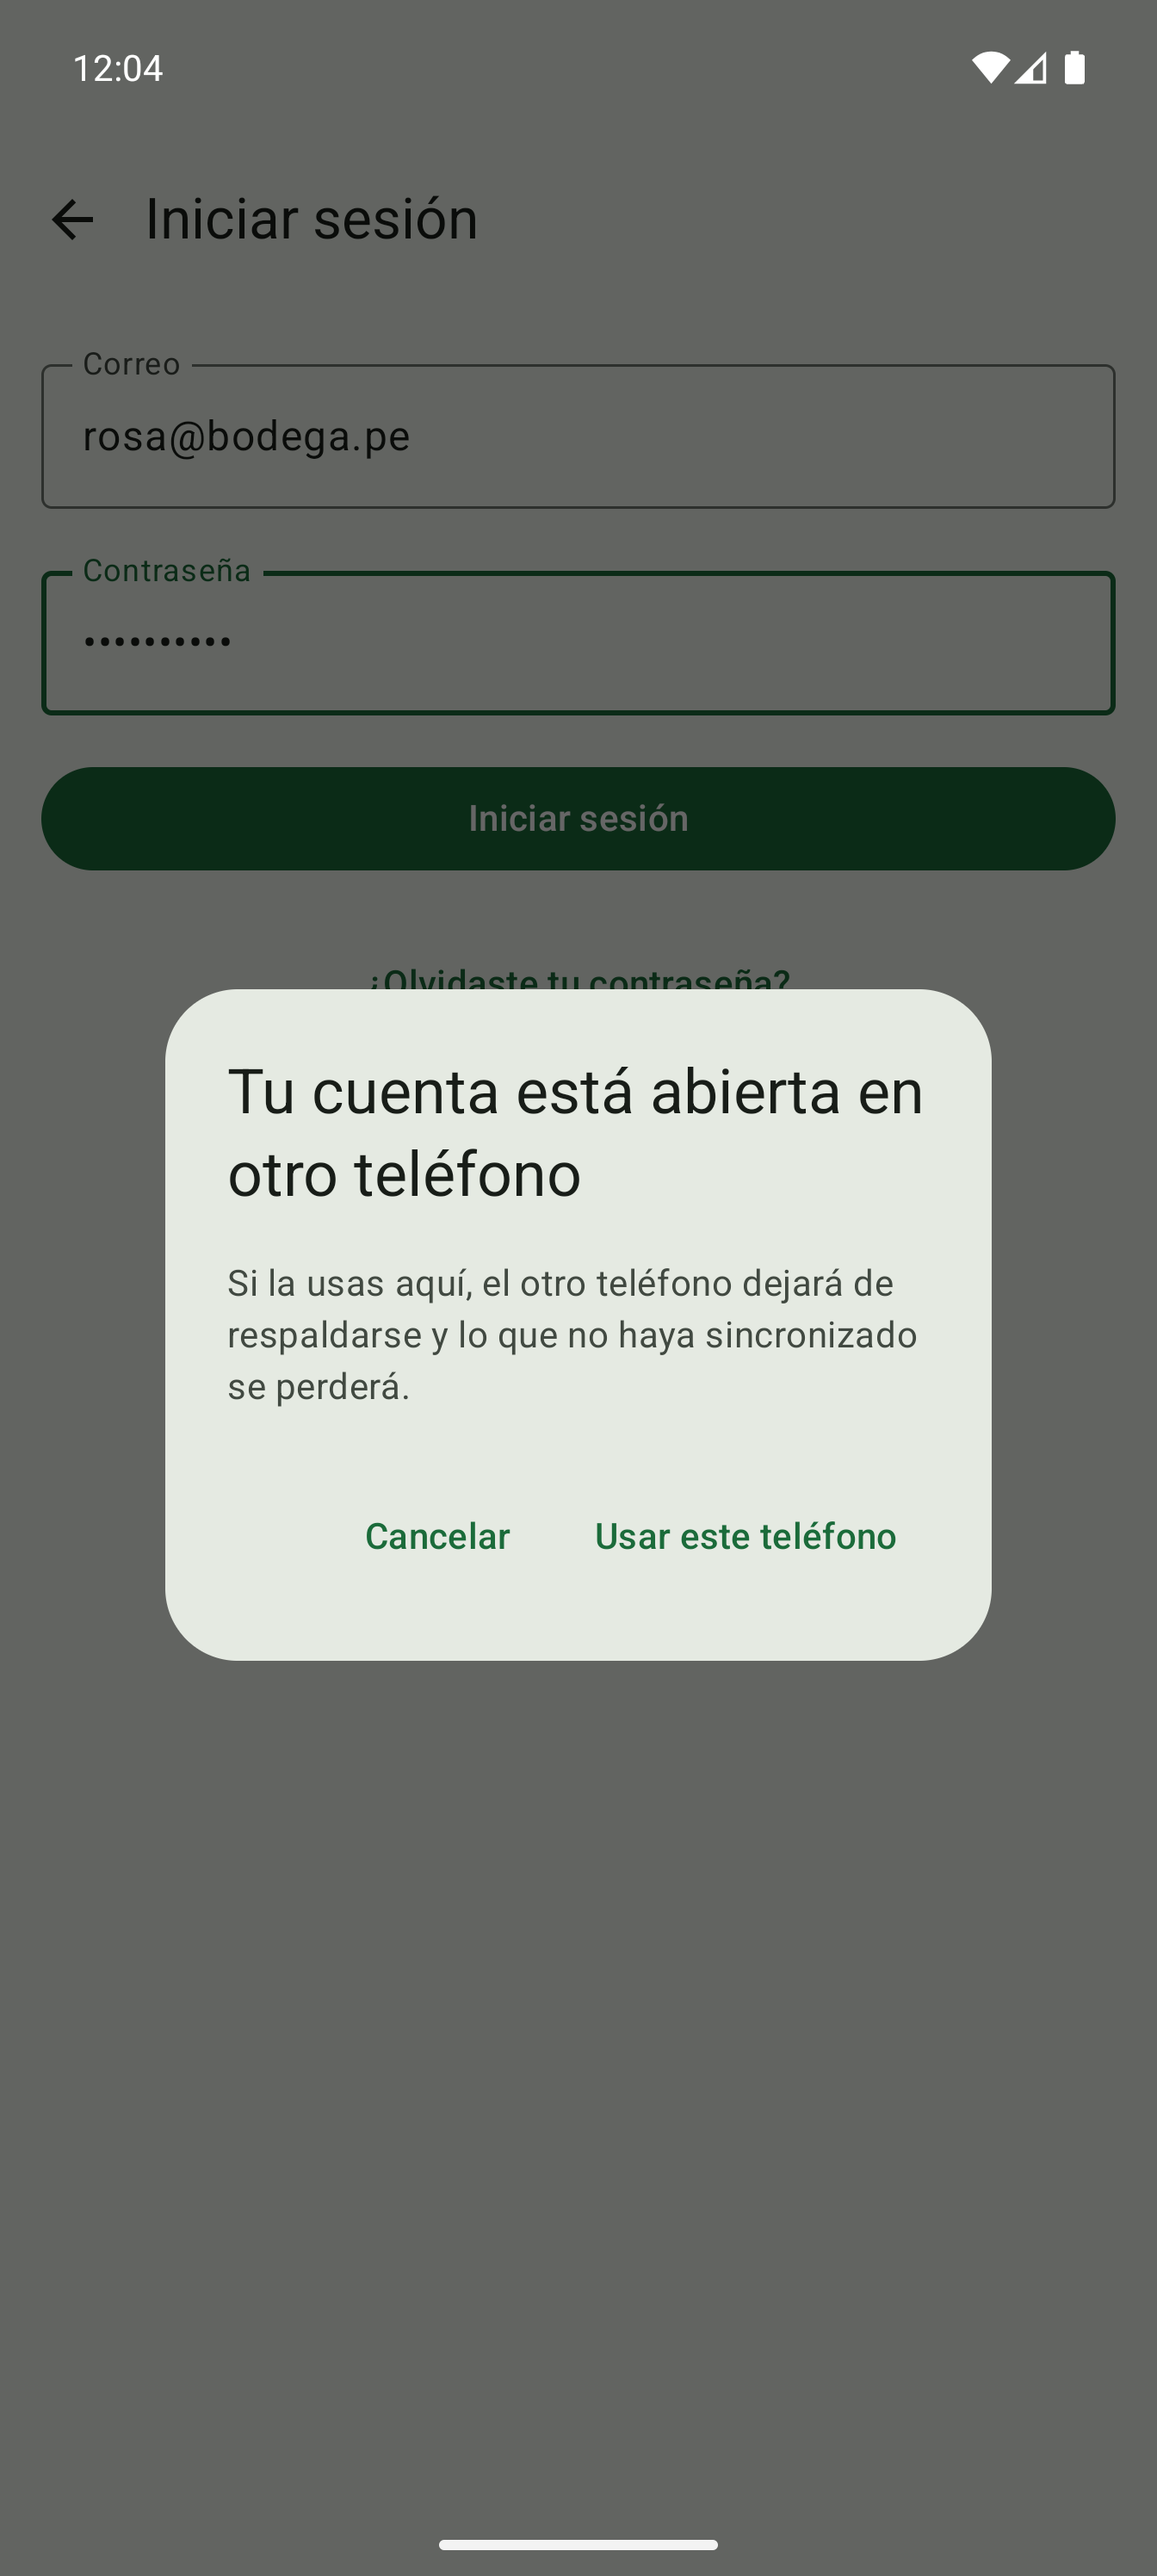
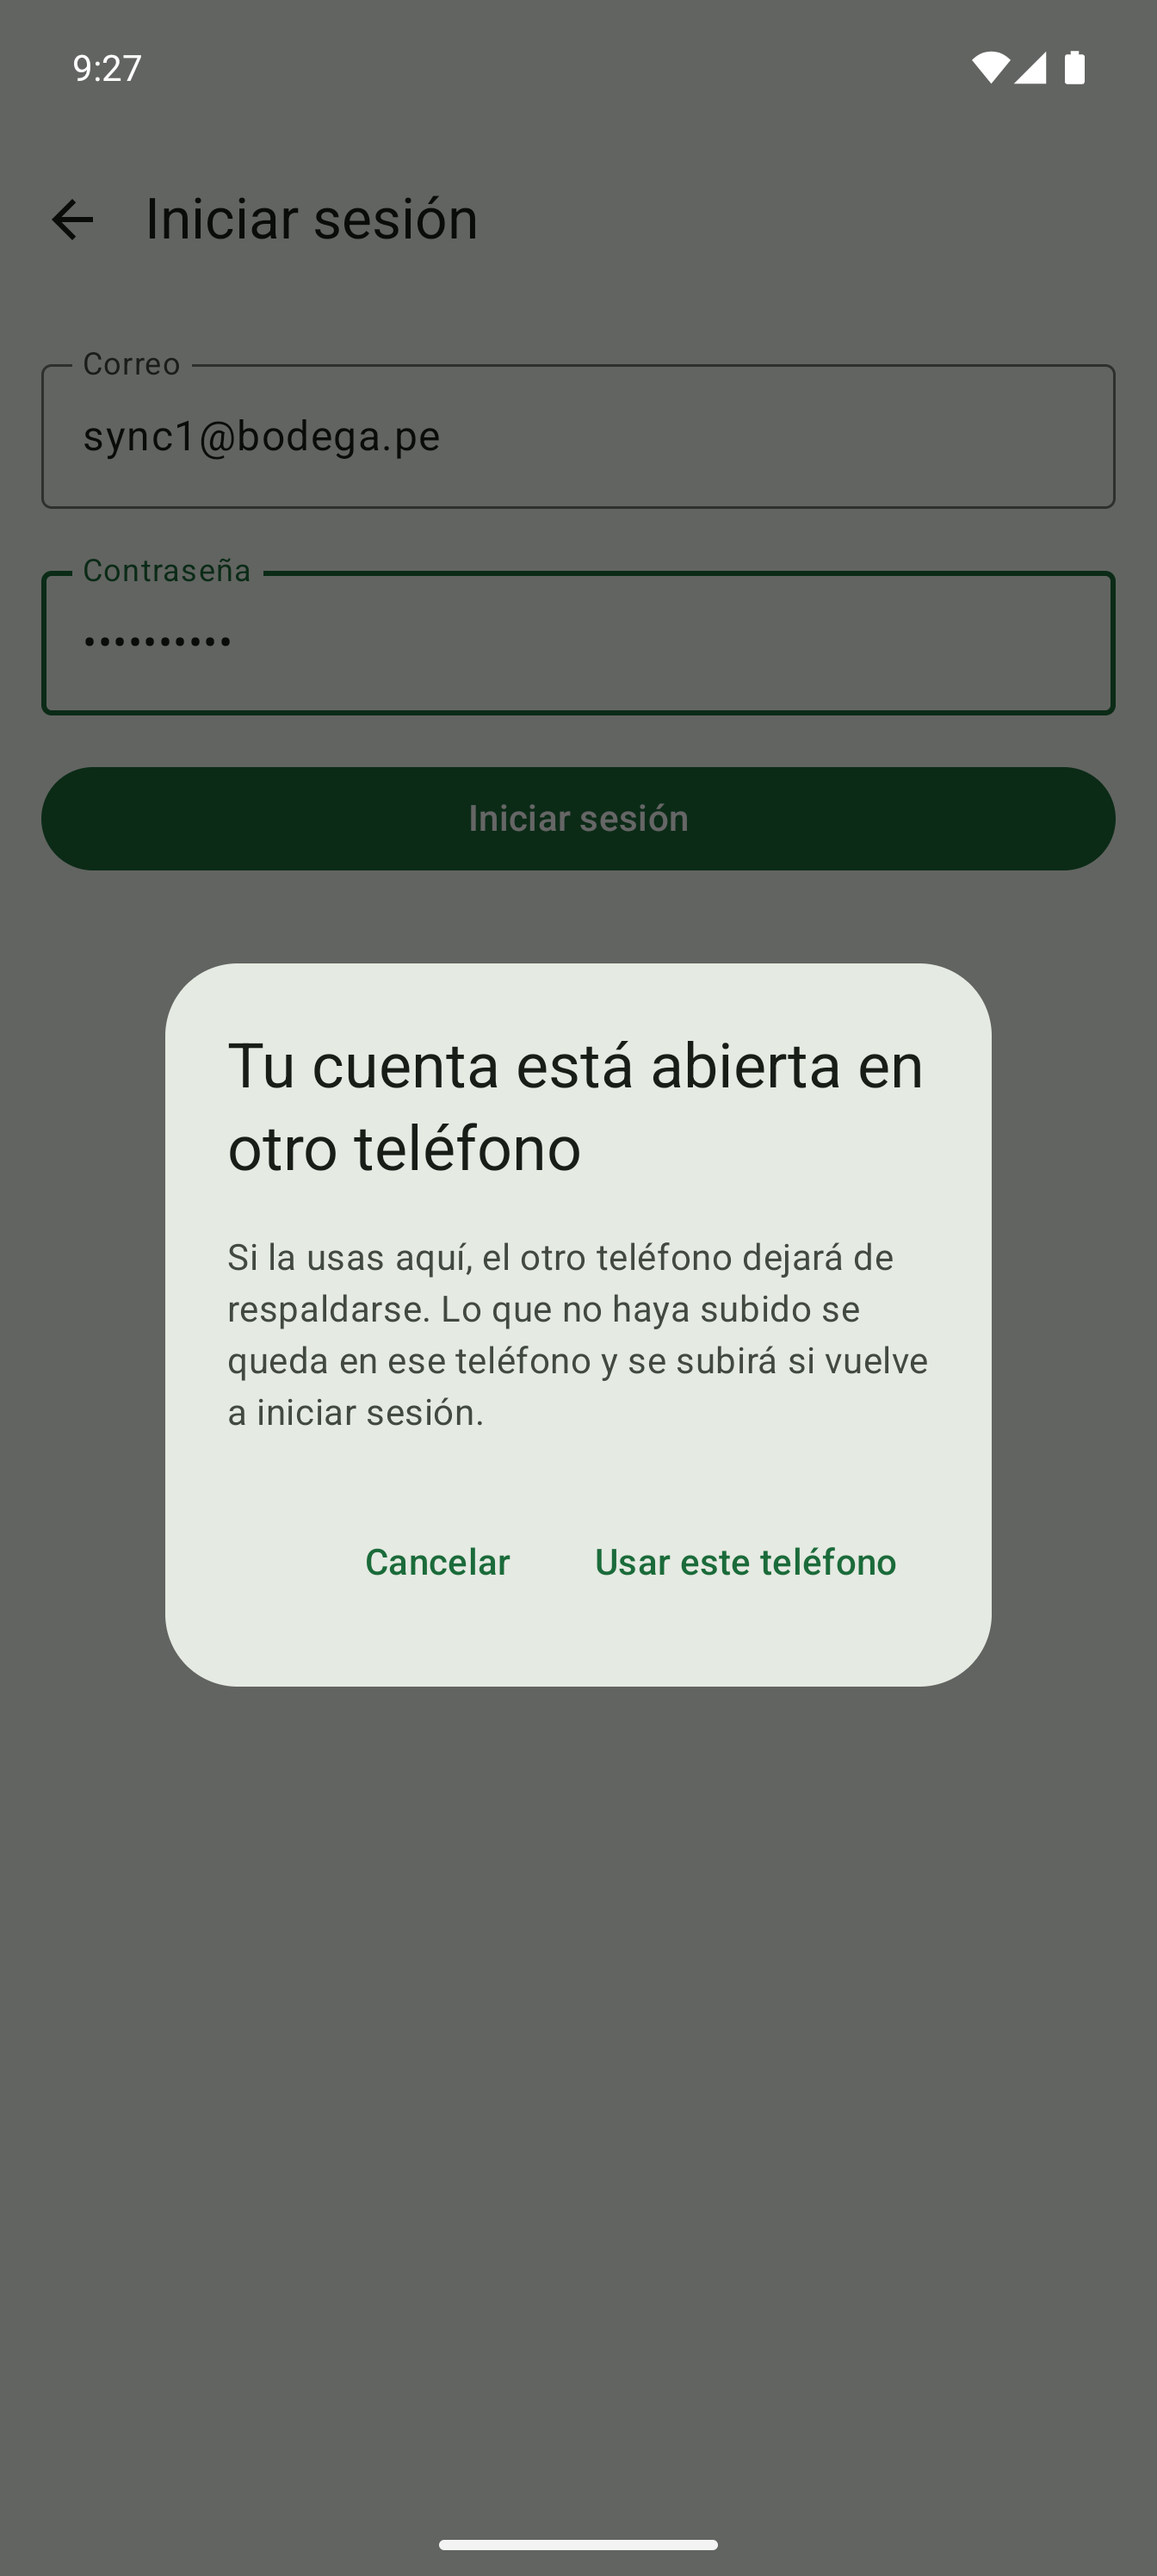
docs: registrar el estado del respaldo en README y CHANGELOG

diff --git a/CHANGELOG.md b/CHANGELOG.md
@@ -12,6 +12,11 @@ El formato sigue [Keep a Changelog](https://keepachangelog.com/es-ES/1.1.0/) y e
 - Envío de la cola a FIIADO-API en segundo plano con WorkManager: espera a tener red, sube lotes de hasta 100 operaciones en orden, quita solo lo que el servidor confirma y reintenta con esperas crecientes. Sin sesión, o si otro teléfono la tomó, la cola se conserva.
 - Restauración al iniciar sesión, antes de enviar nada: trae la libreta del servidor por páginas, continúa desde la última página guardada si se corta y la une con la local sin borrar nada. Lo que existe en ambos lados queda como en el servidor, salvo la anulación, que se conserva; lo que solo existe en el teléfono se sube. La base de datos pasa a la versión 4.
 - El teléfono queda vinculado a la primera cuenta con la que inicia sesión; iniciar sesión con otra se rechaza sin llamar a la API.
+- Estado del respaldo en la pantalla de cuenta: todo respaldado, cuántos cambios faltan subir o si el envío se detuvo porque el servidor rechazó un cambio. Al cerrar sesión con cambios pendientes, el aviso dice cuántos son y que se quedan en el teléfono.
+
+### Cambiado
+
+- El aviso al ceder la cuenta ya no dice que lo no sincronizado en el otro teléfono se perderá: se queda en ese teléfono y se sube si vuelve a iniciar sesión.
 
 ## [0.3.0] - 2026-11-16
 

diff --git a/README.md b/README.md
@@ -19,6 +19,8 @@ Es una app Android nativa con los datos en el teléfono (Room como fuente de ver
   <img src="docs/capturas/resumen.png" alt="Resumen de hoy y del mes con lo cobrado por método" width="240">
   <img src="docs/capturas/metodos-lista.png" alt="Métodos de cobro propios" width="240">
   <img src="docs/capturas/cuenta-ceder.png" alt="Aviso al iniciar sesión con la cuenta abierta en otro teléfono" width="240">
+  <img src="docs/capturas/respaldo-pendientes.png" alt="Cuenta con dos cambios por respaldar sin conexión" width="240">
+  <img src="docs/capturas/respaldo-cerrar-sesion.png" alt="Aviso al cerrar sesión con cambios sin respaldar" width="240">
 </p>
 
 ## Estado
@@ -34,7 +36,7 @@ Es una app Android nativa con los datos en el teléfono (Room como fuente de ver
 | Sincronización: cola de cambios pendientes, guardada junto con cada cambio | Listo |
 | Sincronización: envío de la cola en segundo plano al haber red | Listo |
 | Sincronización: restauración reanudable al iniciar sesión, unida con la libreta local | Listo |
-| Sincronización: estado visible y avisos al cerrar sesión o ceder el teléfono | Pendiente |
+| Sincronización: estado del respaldo y avisos al cerrar sesión o ceder el teléfono | Listo |
 | Recordatorio por WhatsApp | Pendiente |
 | Bloqueo con huella | Pendiente |
 
